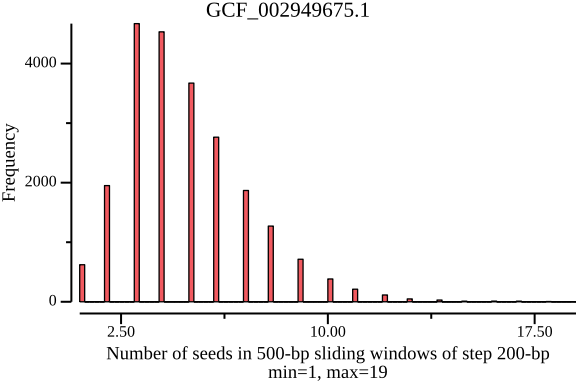
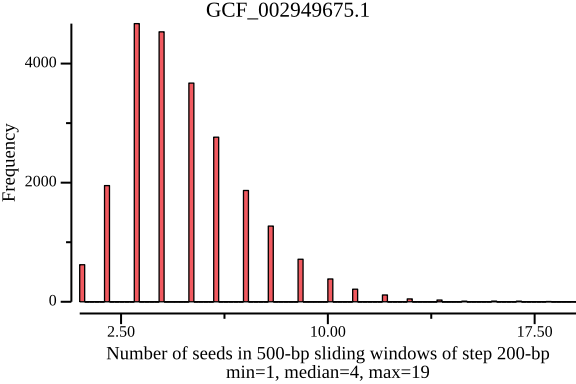
add the median for seed number plot

Changed region(s): [[0.375, 0.9375, 0.75, 1.0]]

diff --git a/lexicmap/cmd/seed-pos.go b/lexicmap/cmd/seed-pos.go
@@ -527,12 +527,12 @@ Extra columns:
 					p.Title.Text = ""
 				}
 				p.Title.TextStyle.Font.Size = 16
-				sort.Float64s(v)
+				sort.Float64s(v2)
 				// p.X.Label.Text = fmt.Sprintf("%s\n99th pctl=%.0f, 99.9th pctl=%.0f, median=%.0f, max=%.0f\n",
 				// 	fmt.Sprintf("Number of seeds in %d-bp sliding windows", window), getPercentile(0.99, v2), getPercentile(0.999, v2), getPercentile(0.5, v), v2[len(v2)-1])
 				m, M := minAndMax(v2)
-				p.X.Label.Text = fmt.Sprintf("Number of seeds in %d-bp sliding windows of step %d-bp\nmin=%.0f, max=%.0f",
-					window, step, m, M)
+				p.X.Label.Text = fmt.Sprintf("Number of seeds in %d-bp sliding windows of step %d-bp\nmin=%.0f, median=%.0f, max=%.0f",
+					window, step, m, getPercentile(0.5, v2), M)
 
 				p.Y.Label.Text = "Frequency"
 				p.X.Label.TextStyle.Font.Size = 14

diff --git a/docs/content/tutorials/search.md b/docs/content/tutorials/search.md
@@ -186,17 +186,68 @@ LexicMap is designed to provide fast and low-memory sequence alignment against m
     ACAGTTTTAATCTTGTTTGTATTTCGCCTAGGTGCGCACATTACTGTGCCCGGGGTGAAT
     ```
 
-- Exporting blast-like alignment text
+- Exporting blast-like alignment text.
+
+    From file:
+
 
     ```text
-    lexicmap search -d db.lmi query.fasta --all --quiet \
-        | sed 1d | awk -F'\t' '{print ">"$1":"$12"-"$13" vs "$5":"$14"-"$15":"$16" pident:"$10" gaps:"$11"\n"$18"\n"$19"\n"$21"\n"$20"\n";}'
+    lexicmap utils 2blast results.tsv -o results.txt
 
-    >NC_000913.3:4166659-4168200:5-120 vs CAMDMN010000161.1:25-140:- pident:87.069 gaps:0
-    14M1X25M1X24M1X1M1X2M1X1M4X8M4X2M1X2M1X22M
-    TGAAGAGTTTGATCATGGCTCAGATTGAACGCTGGCGGCAGGCCTAACACATGCAAGTCGAACGGTAACAGGAAGAAGCTTGCTTCTTTGCTGACGAGTGGCGGACGGGTGAGTAA
-    |||||||||||||| ||||||||||||||||||||||||| |||||||||||||||||||||||| | || |    ||||||||    || || ||||||||||||||||||||||
-    TGAAGAGTTTGATCCTGGCTCAGATTGAACGCTGGCGGCATGCCTAACACATGCAAGTCGAACGGCAGCATGGTCTAGCTTGCTAGACTGATGGCGAGTGGCGGACGGGTGAGTAA
+    ```
+
+    From stdin:
+
+    ```text
+    # align only one long-read <= 500 bp
+
+    $ seqkit seq -M 500 q.long-reads.fasta.gz \
+        | seqkit head -n 1 \
+        | lexicmap search -d demo.lmi/ -a \
+        | lexicmap utils 2blast
+
+    Query = GCF_006742205.1_r100
+    Length = 431
+
+    [Subject genome #1/1] = GCF_006742205.1
+    Query coverage per genome = 92.575%
+
+    >NZ_AP019721.1
+    Length = 2422602
+
+    HSP #1
+    Query coverage per seq = 92.575%, Aligned length = 402, Identities = 98.507%, Gaps = 4
+    Query range = 33-431, Subject range = 1321677-1322077, Strand = Plus/Minus
+
+    Query  33       TAAAACGATTGCTAATGAGTCACGTATTTCATCTGGTTCGGTAACTATACCGTCTACTAT  92
+                    ||||||||||||||||||||||||||||||||||||||||||||||||||||||||||||
+    Sbjct  1322077  TAAAACGATTGCTAATGAGTCACGTATTTCATCTGGTTCGGTAACTATACCGTCTACTAT  1322018
+
+    Query  93       GGACTCAGTGTAACCCTGTAATAAAGAGATTGGCGTACGTAATTCATGTG-TACATTTGC  151
+                    |||||||||||||||||||||||||||||||||||||||||||||||||| |||||||||
+    Sbjct  1322017  GGACTCAGTGTAACCCTGTAATAAAGAGATTGGCGTACGTAATTCATGTGATACATTTGC  1321958
+
+    Query  152      TATAAAATCTTTTTTCATTTGATCAAGATTATGTTCATTTGTCATATCACAGGATGACCA  211
+                    |||||||||||||||||||||||||||||||||||||||||||||||||| |||||||||
+    Sbjct  1321957  TATAAAATCTTTTTTCATTTGATCAAGATTATGTTCATTTGTCATATCAC-GGATGACCA  1321899
+
+    Query  212      TGACAATACCACTTCTACCATTTGTTTGAATTCTATCTATATAACTGGAGATAAATACAT  271
+                    ||||||||||||||||||||||||||||||||||||||||||||||||||||||||||||
+    Sbjct  1321898  TGACAATACCACTTCTACCATTTGTTTGAATTCTATCTATATAACTGGAGATAAATACAT  1321839
+
+    Query  272      AGTACCTTGTATTAATTTCTAATTCTAA-TACTCATTCTGTTGTGATTCAAATGGTGCTT  330
+                    |||||||||||||||||||||||||||| ||||||||||||||||||||||||| |||||
+    Sbjct  1321838  AGTACCTTGTATTAATTTCTAATTCTAAATACTCATTCTGTTGTGATTCAAATGTTGCTT  1321779
+
+    Query  331      CAATTTGCTGTTCAATAGATTCTTTTGAAAAATCATCAATGTGACGCATAATATAATCAG  390
+                    |||||||||||||||||||||||||||||||||||||||||||||||||||||| |||||
+    Sbjct  1321778  CAATTTGCTGTTCAATAGATTCTTTTGAAAAATCATCAATGTGACGCATAATATCATCAG  1321719
+
+    Query  391      CCATCTTGTT-GACAATATGATTTCACGTTGATTATTAATGC  431
+                    |||||||||| |||||||||||||||||||||||||||||||
+    Sbjct  1321718  CCATCTTGTTTGACAATATGATTTCACGTTGATTATTAATGC  1321677
+
+
     ```
 
 
